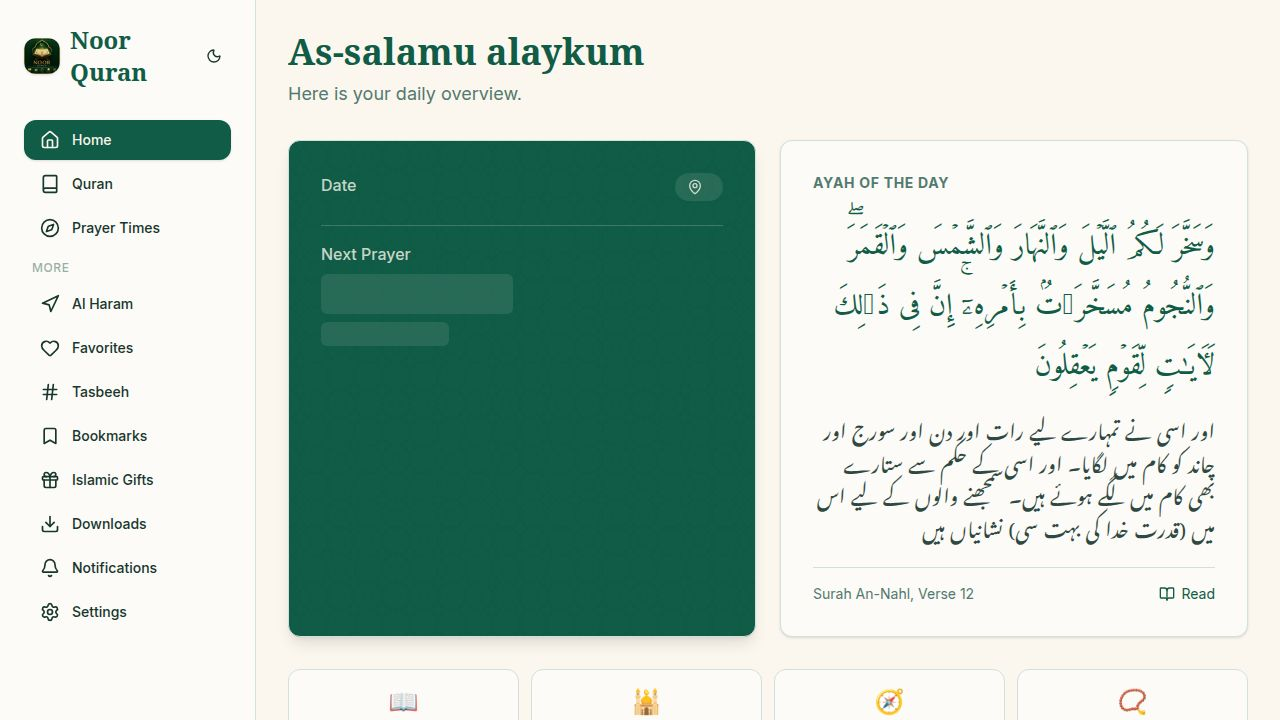
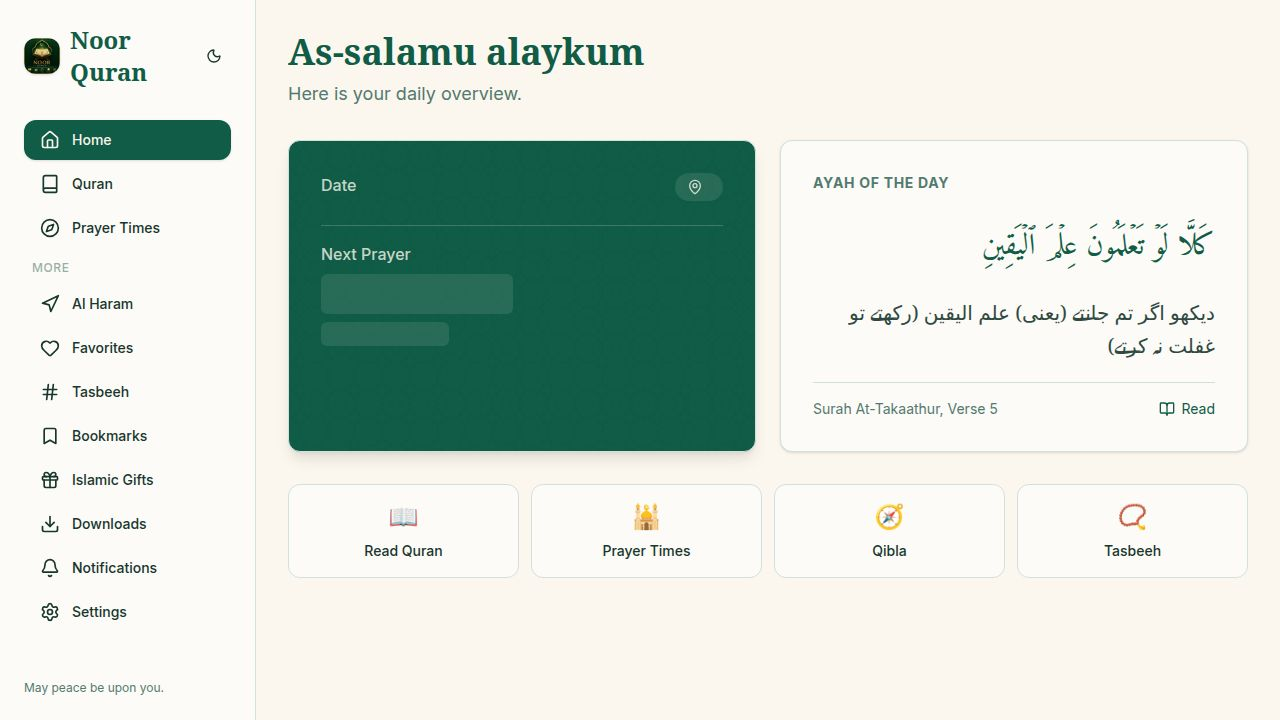
Improve PWA functionality with a custom server and service worker
Update artifact.toml to use a custom production server, convert server.js to ES modules with proper MIME types and CORS headers, and implement a comprehensive fetch handler in the service worker for improved offline support and PWA installability.

Replit-Commit-Author: Agent
Replit-Commit-Session-Id: 8b78380b-f781-4bd2-aa41-ef57e8796f42
Replit-Commit-Checkpoint-Type: full_checkpoint
Replit-Commit-Event-Id: 0adc4242-7e8c-4bc5-8d7c-5340b1b917bb
Replit-Commit-Screenshot-Url: https://storage.googleapis.com/screenshot-production-us-central1/bd238ef0-1b86-4eea-96d7-950cea5f63f3/8b78380b-f781-4bd2-aa41-ef57e8796f42/p27Dop2
Replit-Helium-Checkpoint-Created: true

diff --git a/artifacts/islamic-app/server.js b/artifacts/islamic-app/server.js
@@ -1,0 +1,96 @@
+/**
+ * Noor Quran — Production Static Server
+ * Custom server to ensure correct MIME types + CORS headers for PWABuilder / TWA.
+ */
+import http  from "http";
+import fs    from "fs";
+import path  from "path";
+import { fileURLToPath } from "url";
+
+const __dirname  = path.dirname(fileURLToPath(import.meta.url));
+const PORT       = Number(process.env.PORT) || 3000;
+const PUBLIC_DIR = path.join(__dirname, "dist", "public");
+
+const MIME = {
+  ".html":        "text/html; charset=utf-8",
+  ".js":          "application/javascript; charset=utf-8",
+  ".mjs":         "application/javascript; charset=utf-8",
+  ".css":         "text/css; charset=utf-8",
+  ".json":        "application/json; charset=utf-8",
+  ".webmanifest": "application/manifest+json; charset=utf-8",
+  ".png":         "image/png",
+  ".jpg":         "image/jpeg",
+  ".jpeg":        "image/jpeg",
+  ".webp":        "image/webp",
+  ".svg":         "image/svg+xml",
+  ".ico":         "image/x-icon",
+  ".txt":         "text/plain; charset=utf-8",
+  ".xml":         "application/xml",
+  ".woff":        "font/woff",
+  ".woff2":       "font/woff2",
+  ".ttf":         "font/ttf",
+  ".mp3":         "audio/mpeg",
+};
+
+const CORS = {
+  "Access-Control-Allow-Origin":  "*",
+  "Access-Control-Allow-Methods": "GET, HEAD, OPTIONS",
+  "Access-Control-Allow-Headers": "Content-Type, Accept",
+  "Cross-Origin-Resource-Policy": "cross-origin",
+};
+
+function send(res, status, headers, body) {
+  res.writeHead(status, { ...CORS, ...headers });
+  res.end(body);
+}
+
+function serveStatic(res, filePath) {
+  const ext         = path.extname(filePath).toLowerCase();
+  const contentType = MIME[ext] || "application/octet-stream";
+  try {
+    const body = fs.readFileSync(filePath);
+    send(res, 200, { "Content-Type": contentType, "Content-Length": body.length }, body);
+    return true;
+  } catch {
+    return false;
+  }
+}
+
+function serveSPA(res) {
+  const indexPath = path.join(PUBLIC_DIR, "index.html");
+  const body      = fs.readFileSync(indexPath);
+  send(res, 200, { "Content-Type": "text/html; charset=utf-8", "Content-Length": body.length }, body);
+}
+
+const server = http.createServer((req, res) => {
+  if (req.method === "OPTIONS") {
+    send(res, 204, {}, null);
+    return;
+  }
+
+  const urlPath = decodeURIComponent(req.url.split("?")[0]);
+  const filePath = path.join(PUBLIC_DIR, urlPath);
+
+  try {
+    const stat = fs.statSync(filePath);
+    if (stat.isFile()) {
+      serveStatic(res, filePath);
+      return;
+    }
+    if (stat.isDirectory()) {
+      const idx = path.join(filePath, "index.html");
+      if (fs.existsSync(idx)) { serveStatic(res, idx); return; }
+    }
+  } catch { /* not found — fall through to SPA */ }
+
+  try {
+    serveSPA(res);
+  } catch (e) {
+    send(res, 500, { "Content-Type": "text/plain" }, "Server error: " + e.message);
+  }
+});
+
+server.listen(PORT, "0.0.0.0", () => {
+  console.log(`Noor Quran production server running on port ${PORT}`);
+  console.log(`Serving: ${PUBLIC_DIR}`);
+});

diff --git a/artifacts/islamic-app/public/service-worker.js b/artifacts/islamic-app/public/service-worker.js
@@ -50,12 +50,101 @@ let tickInterval = null;
 
 // ── Lifecycle ──────────────────────────────────────────────────────────────
 
-self.addEventListener("install", () => {
+// ── Cache config ───────────────────────────────────────────────────────────
+const CACHE_NAME = "noor-quran-shell-v1";
+
+// App-shell assets to pre-cache on install
+const PRECACHE_URLS = [
+  "/",
+  "/index.html",
+  "/site.webmanifest",
+  "/icon-192.png",
+  "/icon-512.png",
+  "/favicon-32.png",
+];
+
+// External hostnames that should NEVER be intercepted (live data APIs)
+const PASSTHROUGH_HOSTS = [
+  "api.alquran.cloud",
+  "cdn.islamic.network",
+  "api.aladhan.com",
+  "nominatim.openstreetmap.org",
+  "fonts.googleapis.com",
+  "fonts.gstatic.com",
+];
+
+self.addEventListener("install", (event) => {
   self.skipWaiting();
+  event.waitUntil(
+    caches.open(CACHE_NAME).then((cache) =>
+      cache.addAll(PRECACHE_URLS).catch(() => {
+        // Non-fatal: if pre-cache fails the SW still installs
+      })
+    )
+  );
 });
 
 self.addEventListener("activate", (event) => {
-  event.waitUntil(clients.claim().then(startTicking));
+  // Remove stale caches from older SW versions
+  event.waitUntil(
+    caches
+      .keys()
+      .then((keys) =>
+        Promise.all(
+          keys
+            .filter((k) => k !== CACHE_NAME)
+            .map((k) => caches.delete(k))
+        )
+      )
+      .then(() => clients.claim())
+      .then(startTicking)
+  );
+});
+
+// ── Fetch handler (required for PWA installability) ────────────────────────
+self.addEventListener("fetch", (event) => {
+  const req = event.request;
+
+  // Only handle GET requests
+  if (req.method !== "GET") return;
+
+  let url;
+  try {
+    url = new URL(req.url);
+  } catch {
+    return;
+  }
+
+  // Let external API calls go straight to the network
+  if (PASSTHROUGH_HOSTS.some((h) => url.hostname === h || url.hostname.endsWith("." + h))) {
+    return;
+  }
+
+  // Only intercept same-origin requests
+  if (url.origin !== self.location.origin) return;
+
+  event.respondWith(
+    caches.match(req).then((cached) => {
+      // Cache-first for same-origin assets
+      if (cached) return cached;
+
+      return fetch(req)
+        .then((response) => {
+          // Only cache successful same-origin responses
+          if (response && response.status === 200 && response.type === "basic") {
+            const clone = response.clone();
+            caches.open(CACHE_NAME).then((cache) => cache.put(req, clone));
+          }
+          return response;
+        })
+        .catch(() => {
+          // Offline fallback: serve index.html for navigation requests
+          if (req.mode === "navigate") {
+            return caches.match("/index.html") || caches.match("/");
+          }
+        });
+    })
+  );
 });
 
 self.addEventListener("message", (event) => {

diff --git a/artifacts/islamic-app/index.html b/artifacts/islamic-app/index.html
@@ -9,12 +9,12 @@
     <meta name="robots" content="index, follow" />
 
     <!-- PWA manifest — single canonical link, served as application/manifest+json -->
-    <link rel="manifest" href="/site.webmanifest" crossorigin="use-credentials" />
+    <link rel="manifest" href="/site.webmanifest" />
     <meta name="mobile-web-app-capable" content="yes" />
     <meta name="apple-mobile-web-app-capable" content="yes" />
     <meta name="apple-mobile-web-app-title" content="Noor Quran" />
     <meta name="apple-mobile-web-app-status-bar-style" content="black-translucent" />
-    <meta name="theme-color" content="#1a5c38" />
+    <meta name="theme-color" content="#065f46" />
     <meta name="msapplication-TileColor" content="#1a5c38" />
     <meta name="msapplication-TileImage" content="/icon-144.png" />
 